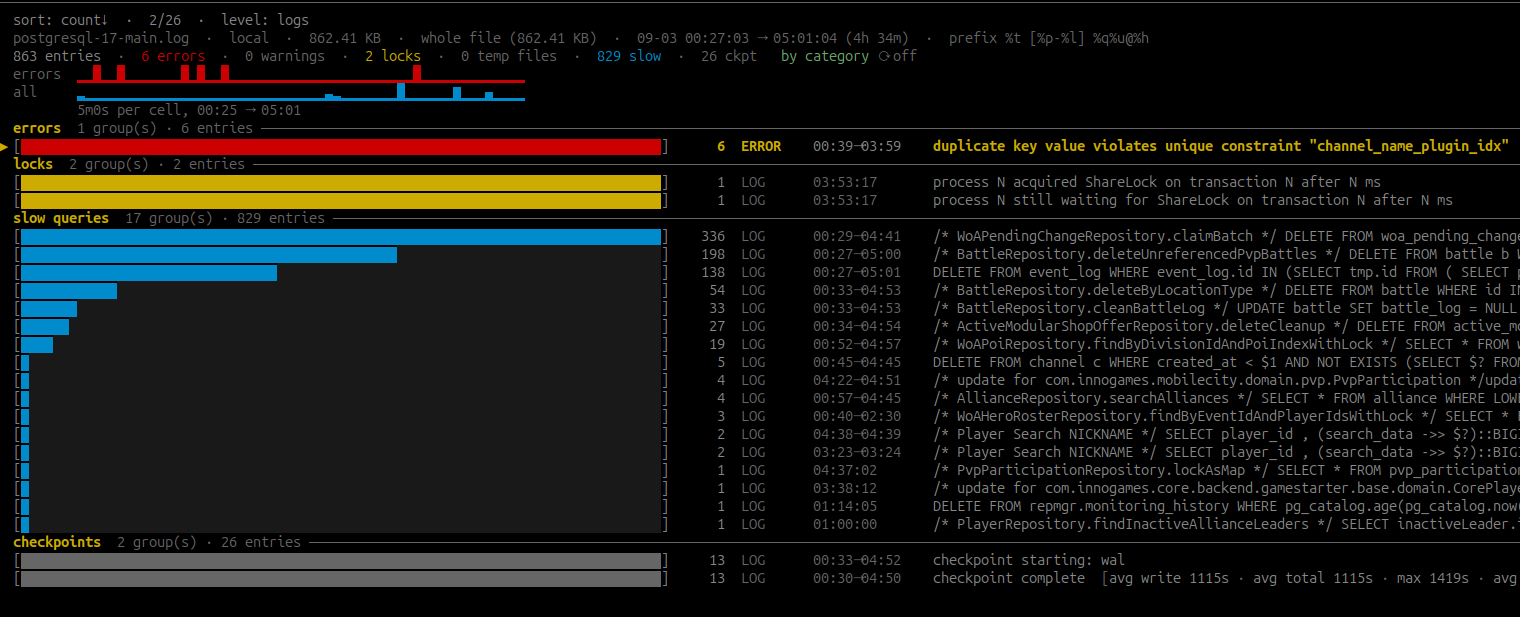
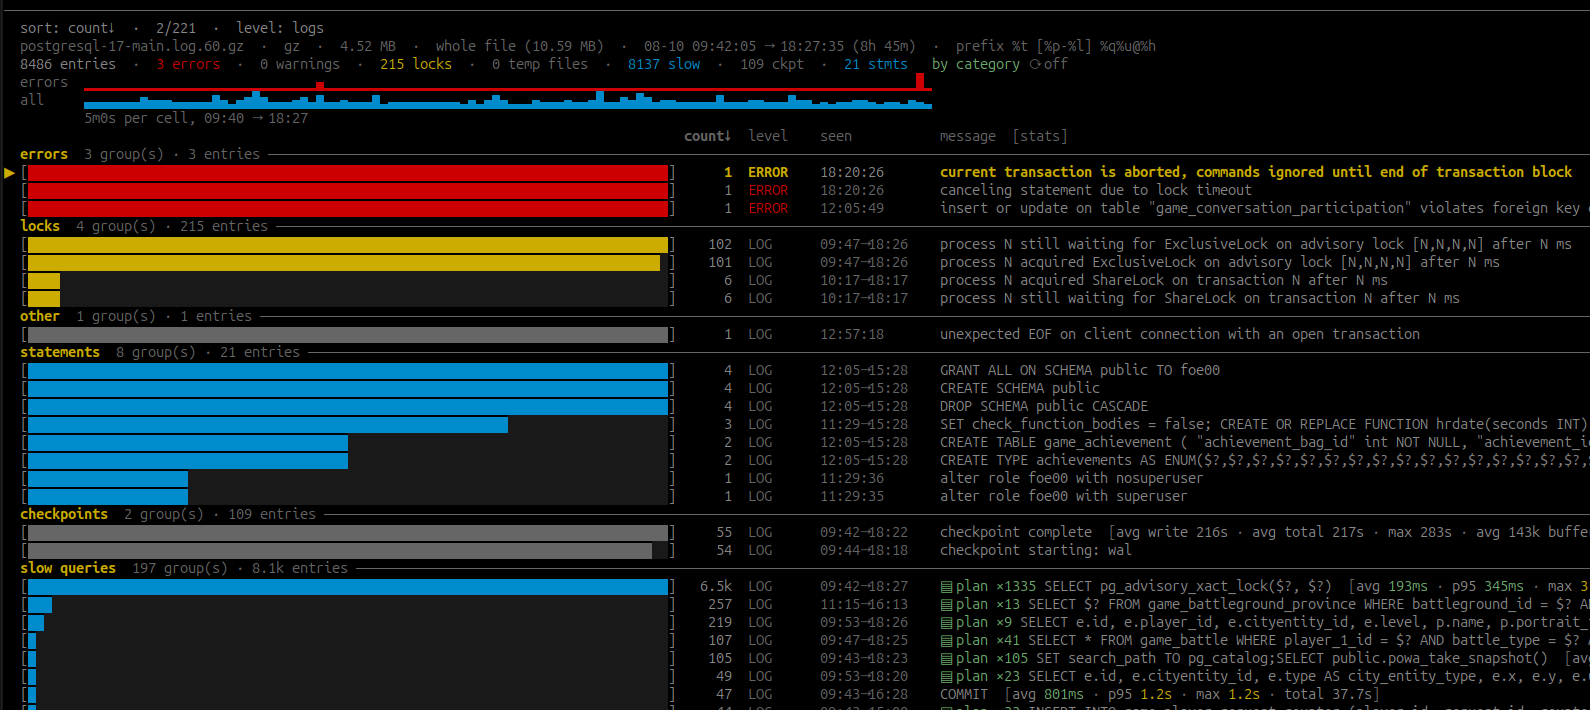
log viewer: colorize explains

diff --git a/internal/tui/explain.go b/internal/tui/explain.go
@@ -105,14 +105,19 @@ func explainHeatStyle(frac float64) (lipgloss.Style, bool) {
 	}
 }
 
-// colorizeExplain renders a text-format EXPLAIN plan into ready-to-print lines:
-// each is clipped to the detail width first (keeping clipDetail's rune-based
-// truncation ANSI-safe), then the slow nodes get their (actual time=…)/(cost=…)
-// metric heat-coloured by self-time share, with the single worst node's name
-// bolded. When the plan has no positive root cost/time (trivial or wholly
-// "never executed"), every line renders exactly as before.
-func (m *Model) colorizeExplain(plan string, analyze bool) []string {
-	lines := strings.Split(plan, "\n")
+// explainPaint is the heat decision for one plan-node source line.
+type explainPaint struct {
+	style    lipgloss.Style
+	boldName bool
+	selfPct  float64 // node's self-time share of the whole query (analyze only)
+}
+
+// explainDecisions grades every plan node by its self-time (or self-cost) share
+// of the whole query and returns the paint decision keyed by source line index.
+// The single worst node — the bottleneck — additionally gets its name bolded.
+// When the plan has no positive root cost/time (trivial or wholly "never
+// executed") the map is empty and callers print the plan untouched.
+func explainDecisions(plan string, analyze bool) map[int]explainPaint {
 	nodes := parseExplainTree(plan, analyze)
 
 	// nodes[0] is the root (outermost plan node); its inclusive value is the
@@ -127,22 +132,34 @@ func (m *Model) colorizeExplain(plan string, analyze bool) []string {
 		}
 	}
 
-	// style decision per source line index.
-	type decision struct {
-		style    lipgloss.Style
-		boldName bool
-		selfPct  float64 // node's self-time share of the whole query (analyze only)
-	}
-	decided := make(map[int]decision)
+	decided := make(map[int]explainPaint)
 	if total > 0 {
 		for i, n := range nodes {
 			style, hot := explainHeatStyle(n.self / total)
 			if !hot {
 				continue
 			}
-			decided[n.lineIdx] = decision{style: style, boldName: i == worst, selfPct: n.self / total * 100}
+			decided[n.lineIdx] = explainPaint{style: style, boldName: i == worst, selfPct: n.self / total * 100}
 		}
 	}
+	return decided
+}
+
+// explainHasTiming reports whether a text plan carries per-node actual times —
+// auto_explain with log_timing=off (or plain EXPLAIN) only has cost estimates,
+// so the heat grading must fall back to cost.
+func explainHasTiming(plan string) bool {
+	return strings.Contains(plan, "(actual time=")
+}
+
+// colorizeExplain renders a text-format EXPLAIN plan into ready-to-print lines:
+// each is clipped to the detail width first (keeping clipDetail's rune-based
+// truncation ANSI-safe), then the slow nodes get their (actual time=…)/(cost=…)
+// metric heat-coloured by self-time share, with the single worst node's name
+// bolded.
+func (m *Model) colorizeExplain(plan string, analyze bool) []string {
+	lines := strings.Split(plan, "\n")
+	decided := explainDecisions(plan, analyze)
 
 	out := make([]string, 0, len(lines))
 	for i, line := range lines {

diff --git a/internal/tui/view_logs.go b/internal/tui/view_logs.go
@@ -606,6 +606,28 @@ func (m *Model) renderLogEntry(s *screen, height int) string {
 			b.WriteString("  " + l + "\n")
 		}
 	}
+	// planSection is the PLAN body with the same heat grading as the top-queries
+	// EXPLAIN pane: each source line is wrapped plain first (wrapPlain is
+	// rune-based, so no ANSI may enter it) and only then painted per segment —
+	// paintExplainLine is a no-op on segments without the metric block.
+	planSection := func(body []byte) {
+		if len(body) == 0 {
+			return
+		}
+		b.WriteString("\n  " + styleHeader.Render(" PLAN (auto_explain) ") + "\n")
+		plan := dedent(strings.TrimLeft(string(body), "\n"))
+		analyze := explainHasTiming(plan)
+		decided := explainDecisions(plan, analyze)
+		for i, line := range strings.Split(plan, "\n") {
+			d, ok := decided[i]
+			for _, seg := range wrapPlain(line, width) {
+				if ok {
+					seg = paintExplainLine(seg, d.style, d.boldName, analyze, d.selfPct)
+				}
+				b.WriteString("  " + seg + "\n")
+			}
+		}
+	}
 	if len(e.SQL) > 0 {
 		// Keep only the lead-in ("duration: N ms" / "execute <unnamed>:") —
 		// the SQL itself gets its own highlighted section.
@@ -617,7 +639,7 @@ func (m *Model) renderLogEntry(s *screen, height int) string {
 		}
 		section("MESSAGE", []byte(head), false)
 		section("STATEMENT", e.SQL, true)
-		section("PLAN (auto_explain)", e.Plan, false)
+		planSection(e.Plan)
 	} else {
 		section("MESSAGE", e.Message, false)
 	}

diff --git a/README.md b/README.md
@@ -22,15 +22,16 @@ web server.
   progress monitor (`p`) lists every running vacuum / index build / analyze /
   cluster / copy / basebackup with its phase and percentage.
 - **Walk a B-tree level by level** — root → internal pages → leaves; `↵` on an
-  internal entry follows its downlink, leaf entries decode the key and open the
-  heap row, HOT chains are followed, `s` seeks by key. Heap pages drill into
-  tuples and a byte-level layout of the tuple header, null bitmap, and each
-  attribute.
+  internal entry follows its downlink, `↵` on a leaf entry lands in the heap
+  page with the cursor on that tuple and its byte layout open, HOT chains are
+  followed and flagged, `s` seeks by key. Heap pages drill into tuples and a
+  byte-level layout of the tuple header, null bitmap, and each attribute.
 - **Shared buffers: who owns the cache, and why** — per-relation buffered bytes,
-  cached %, hit %, dirty bytes, and a usage-count "temperature" histogram with
-  dirty and pinned buffers per band; `m` maps the whole shared-memory segment.
-- **Health triage board** — 23 checks run concurrently and land as red / yellow /
-  green; `↵` jumps straight to the offender. A system overview shows the server's
+  cached %, hit %, dirty bytes and dirty %, and a usage-count "temperature"
+  histogram with dirty and pinned buffers per band; `p` reads a hot table page
+  by page, `m` maps the whole shared-memory segment.
+- **Health triage board** — 25 checks run concurrently and land as red / yellow /
+  green; `↵` jumps straight to the offender, and the green ones unfold on demand. A system overview shows the server's
   vital signs and a `pg_settings` browser that flags non-default and
   restart-pending values.
 - **38 diagnostic queries, 11 with a runnable fix** — `↵` generates a lock-safe
@@ -45,9 +46,10 @@ web server.
   anchors for *now*, *session start*, and *since the last stats reset*. `EXPLAIN
   ANALYZE` uses the parameters `pg_qualstats` captured, or inferred ones.
 - **Log analyzer** — errors, slow queries, lock waits, checkpoints, temp files and
-  autovacuum grouped by fingerprint, sectioned by category; live tail, rotated
-  `.gz` files, and server-side reading over the connection. Reads pgbouncer's
-  own log too.
+  autovacuum grouped by fingerprint, sectioned by category; `auto_explain` plans
+  with their hot nodes heat-coloured; live tail, rotated `.gz` files, and
+  server-side reading over the connection. Reads pgbouncer's own log too, with
+  its periodic stats lines turned into a sparkline pane.
 - **PgBouncer console browser** — every instance on the host is found from
   `/proc` and `/etc/pgbouncer`, addressed by its own unix socket (several
   instances usually share one TCP port), and browsed read-only: pools with
@@ -111,7 +113,9 @@ automatically.
 `pg_qualstats` installed the sample uses constants actually seen in production;
 without it, parameters are inferred from the prepared statement and a generic
 plan is shown. `↵` again runs `EXPLAIN (ANALYZE, BUFFERS)` on read-only
-statements, `E` executes it and shows the rows, `p` browses the captured
+statements — plan nodes are heat-coloured by their share of the total time,
+with the single worst node bolded, so the bottleneck stands out without reading
+every line — `E` executes it and shows the rows, `p` browses the captured
 parameter sets, `d` describes the statement's main table, and `u` jumps to that
 table in the disk view.
 
@@ -155,16 +159,24 @@ built from `pg_ls_logdir()`. Plain stderr logs are parsed with the server's
 `log_line_prefix` (auto-detected when it doesn't fit the file); csvlog and jsonlog
 work too, as does pgbouncer's own log (`/var/log/postgresql/pgbouncer*.log` is
 listed in the picker). DETAIL / HINT / STATEMENT / CONTEXT lines are attached to their primary
-entry and `auto_explain` plans fold into their statement.
+entry and `auto_explain` plans fold into their statement, rendered with the same
+heat grading as the top-queries EXPLAIN pane: nodes that dominate the actual
+time (or, with `log_timing = off`, the cost) are coloured and the worst one is
+bolded.
 
 ![Log analyzer](docs/logs_1.png)
 
 The overview groups entries by fingerprint — errors by normalized message, slow
 statements by normalized SQL with avg / p95 / max duration — and sections them by
-category: errors, warnings, lock waits, temp-file spills, replication, slow
-queries, checkpoints, autovacuum, connections. The header carries a per-severity
-timeline histogram of the loaded window. `Tab` flips between the grouped view, a
-sortable chronological timeline, and a slow-queries pane ordered by duration; `m`
+category: errors, warnings, lock waits, temp-file spills, replication,
+checkpoints, autovacuum, connections, and — last, because it usually has the
+most distinct groups — slow queries. Column headers show the sort. The header
+carries a per-severity timeline histogram of the loaded window. `Tab` cycles the
+grouped view, a sortable chronological timeline, a slow-queries pane ordered by
+duration and, for pgbouncer logs, a **pooler stats** pane: one row per
+`stats_period` with transactions and queries per second, bytes in / out and
+transaction / query latency, cells coloured relative to the column's max and a
+sparkline per metric in the header. `m`
 toggles the category sections off for a flat count-ordered list. `/` searches, `w`
 widens the tail window (32 MiB up to the whole file), `t` starts a live tail
 that re-reads incrementally and survives rotation. `↵` drills group → entries →
@@ -196,7 +208,7 @@ humanized, clients / servers / sockets gain a reverse-DNS `hostname` next to
 `addr`, the `scram_*` key columns are never shown, `t` cycles the refresh (1s → 10s → off), `C` picks columns per
 table, `e` exports. `l` opens the instance's logfile in the log analyzer, which
 understands pgbouncer's line format (socket events under *conn*, the periodic
-`stats:` line under *other*).
+`stats:` lines in their own pooler stats pane).
 
 The tool is read-only: it never issues RELOAD, PAUSE, RESUME or KILL. The console
 login is `-U` (or `--pgbouncer-user`) and must be in `stats_users` (read-only
@@ -209,22 +221,25 @@ and drills into this tool.
 
 ### Health triage & diagnostics
 
-**Health triage** runs 23 checks concurrently — wraparound age, WAL archiver,
-replication lag, connection saturation, PgBouncer waits, checkpoint pressure,
-prepared transactions, blocked backends, long and idle-in-transaction sessions,
-replication slots, cache hit ratio, SLRU pressure, deadlocks, temp files,
-rollback ratio, sequence exhaustion, stale statistics, missing FK indexes, table
-and index bloat, invalid indexes — and boils them down to a red / yellow / green
-board sorted most-severe first. `↵` on a row drills into whatever explains it:
-the diagnostic query, the lock tree, the activity list, the system overview, or
-the pgbouncer tool.
+**Health triage** runs 25 checks concurrently — transaction-ID and multixact
+wraparound age, WAL archiver, replication lag, connection saturation, PgBouncer
+waits, checkpoint pressure, prepared transactions, extension capacity, blocked
+backends, long and idle-in-transaction sessions, replication slots, cache hit
+ratio, SLRU pressure, deadlocks, temp files, rollback ratio, sequence
+exhaustion, stale statistics, missing FK indexes, table and index bloat, invalid
+and duplicate indexes — and boils them down to a red / yellow / green board
+sorted most-severe first. Green checks collapse into one summary row; `↵` on it
+(or `v` anywhere) unfolds them so each can be read and drilled like a finding.
+`↵` on a row drills into whatever explains it: the diagnostic query, the lock
+tree, the activity list, the system overview, or the pgbouncer tool.
 
 **Diagnostics** (under *Other tools*) are 38 saved queries in six categories —
 index, table, vacuum, activity, WAL, server — with `f` to filter by category, `s`
 to show the SQL, and `C` to pick columns. Eleven of them come with a **fix**:
 index bloat, unused / duplicate / redundant / invalid indexes, CLUSTER candidates,
 table bloat, stale statistics, fillfactor, vacuum stats, and wraparound freeze
-age. `↵` on a result row generates the script for that object — only lock-safe
+age. Duplicate indexes are ranked by the bytes that dropping the extra copies
+would free. `↵` on a result row generates the script for that object — only lock-safe
 statements (`REINDEX INDEX CONCURRENTLY`, `DROP INDEX CONCURRENTLY`, `ANALYZE`,
 plain `VACUUM`; `ALTER TABLE` guarded by a 3 s `lock_timeout`; `VACUUM FULL` and
 `CLUSTER` only ever as comments) — and `y` runs it statement by statement over a
@@ -237,8 +252,9 @@ success the diagnostic reloads so you see the effect immediately.
 
 A server dashboard on one screen: version, role, uptime, connection usage split by
 state, longest transaction; commit / rollback ratio, deadlocks and conflicts;
-tuple-level write and scan activity; replication and slots; memory GUCs; autovacuum settings and transaction-ID age against
-`autovacuum_freeze_max_age`; WAL and checkpoint statistics; `pg_stat_io`; and
+tuple-level write and scan activity; replication and slots; memory GUCs;
+autovacuum settings and transaction-ID and multixact age against their
+`autovacuum_*freeze_max_age` limits; WAL and checkpoint statistics; `pg_stat_io`; and
 pending configuration changes, including settings that still need a restart. The
 top block shows **extension capacity** — how full `pg_stat_statements` /
 `pg_qualstats` and the table statistics are — with a confirmed reset (`↵`,
@@ -264,16 +280,20 @@ three bars: the host's memory (shared buffers vs. other processes vs. page cache
 vs. free), the buffer pool by relation, this database, other databases, and free,
 and a cluster-wide **temperature** histogram from buffer usage counts with dirty
 and pinned totals. Below it, one bar per relation with buffered bytes, the share
-of the table that is cached, hit ratio, **dirty bytes**, and a mean usage count
-coloured cold → hot — so a table that sits in the pool without being reused, or
-one whose pages are all dirty and hot, is obvious at a glance.
+of the table that is cached, hit ratio, **dirty bytes** and the **dirty share**
+of what is buffered (graded on fixed thresholds, since a mostly-dirty cache means
+write pressure whatever the table's size), and a mean usage count coloured
+cold → hot — so a table that sits in the pool without being reused, or one whose
+pages are all dirty and hot, is obvious at a glance.
 
 ![Shared buffers](docs/shared_buffers.png)
 
 Drill into a relation for its **buffer detail**: cache footprint, hit ratio,
 dirty bytes as a share of what is buffered, and the relation's own histogram from
 cold (evictable) to hot (frequently reused), with the dirty and pinned portion of
-each band marked. Heap, TOAST, and indexes are counted together.
+each band marked. Heap, TOAST, and indexes are counted together. From either
+screen `p` opens the table's heap pages in the page inspector, so a hot or dirty
+table can be read page by page.
 
 ![Shared buffer detail](docs/shared_buffer_details.png)
 
@@ -300,8 +320,10 @@ links. `↵` on a page lists its **index tuples**; `↵` on an entry of an inter
 page follows the downlink to the child page, so you can descend from root to a
 particular leaf one level at a time. Leaf entries are decoded against the heap
 and show the indexed key; an entry that points at a HOT-updated row is resolved
-through the redirect line pointer and marked with the hop. `s` seeks to a key
-(or, on BRIN, a heap block). GiST, GIN, and BRIN indexes open in block order
+through the redirect line pointer, marked with the hop and flagged `H`. `↵` on a
+leaf entry opens the heap page it points at with the cursor on that tuple and
+its byte layout already open, so the index → heap hop stays inside the page
+inspector. `s` seeks to a key (or, on BRIN, a heap block). GiST, GIN, and BRIN indexes open in block order
 with their own page statistics.
 
 ![Index pages](docs/pages_index.png)
@@ -403,15 +425,15 @@ Frequently used view-specific keys:
 | Key        | Where            | Action                                            |
 |------------|------------------|---------------------------------------------------|
 | `b`        | parts / activity | measure bloat / open the lock tree                |
-| `v`        | parts / activity | run VACUUM / show auxiliary backends              |
-| `p`        | activity, overview | progress monitor for running operations         |
+| `v`        | parts / activity / triage | run VACUUM / show auxiliary backends / unfold green checks |
+| `p`        | activity, overview / parts, buffers | progress monitor / open the page inspector |
 | `W`        | activity         | wait-event profiler                               |
 | `k` `x`    | activity         | cancel query / terminate backend (`y` to confirm) |
 | `S` `L` `D`| top queries      | save / browse & diff / delete snapshots           |
 | `R`        | top queries      | re-baseline the window                            |
 | `d`        | queries, logs    | describe the statement's main table               |
 | `m`        | buffers / logs   | shared-memory map / toggle log sections           |
-| `Tab`      | logs             | groups → timeline → slow queries                  |
+| `Tab`      | logs             | groups → timeline → slow queries → pooler stats   |
 | `t`        | activity, queries, logs, pgbouncer | cycle auto-refresh / live tail  |
 | `l`        | pgbouncer        | open the instance's log in the log analyzer       |
 | `s`        | diagnostics / index tuples / overview | show SQL / seek to a key / settings browser |
